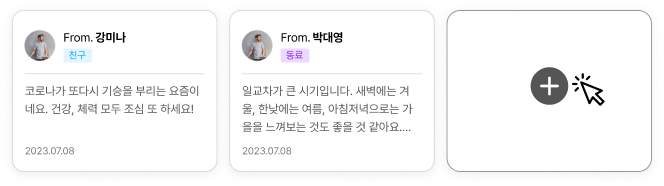
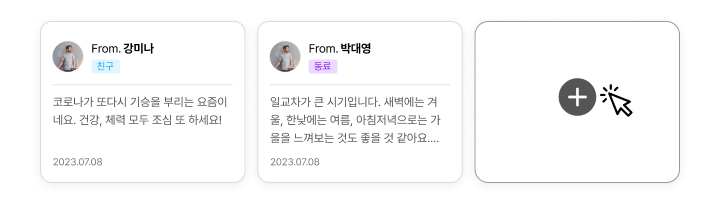
Fix: recover images & change Profile css

diff --git a/src/components/common/Profile.jsx b/src/components/common/Profile.jsx
@@ -1,13 +1,19 @@
 import styles from './Profile.module.css';
 
 const Profile = ({ recentMessages, messageCount }) => {
-  const profileCount = messageCount > 3 ? 5 : messageCount;
+  const profileCount = messageCount > 3 ? 4 : messageCount;
+  const profileCountObj = {
+    1: 1,
+    2: 0.3,
+    3: -1,
+    4: -1.5,
+  };
   const overProfileCount = messageCount >= 102 ? 102 : messageCount;
   const writerCount = messageCount > 3 && messageCount < 100 ? messageCount : '99+';
 
   return (
     <>
-      <div style={{ marginRight: `${profileCount * -0.5}rem` }}>
+      <div style={{ marginRight: `${profileCountObj[profileCount]}rem` }}>
         {recentMessages && (
           <div className={styles.imageStyle}>
             {recentMessages.map((recentMessage, index) => (
